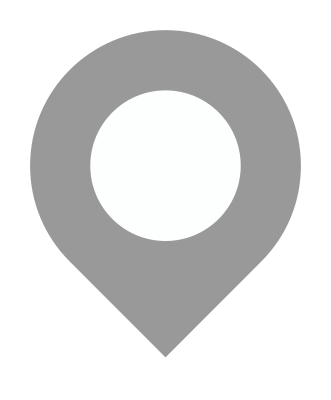
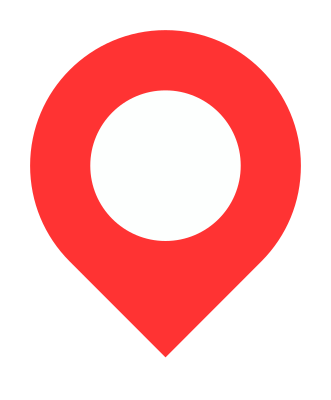
fix marker; add address

diff --git a/map-ui/src/app/map/map.component.ts b/map-ui/src/app/map/map.component.ts
@@ -2,7 +2,7 @@ import { AfterViewInit, Component, ElementRef, OnInit, ViewChild, ViewEncapsulat
 import * as L from 'leaflet';
 import { map, take } from 'rxjs';
 import { environment } from '../../environments/environment';
-import { FavoriteService } from '../services/favorite/favorite.service';
+import { BackendService } from '../services/backend/backend.service';
 import { Dictionary, MapState, MarkerClass, MarkerSvg, MarkerType } from './map.model';
 
 const BASE_ICON_URI = 'https://raw.githubusercontent.com/gravitystorm/openstreetmap-carto/refs/heads/master/symbols/';
@@ -57,13 +57,18 @@ export class MapComponent implements OnInit, AfterViewInit {
     'Tourism': new L.LayerGroup([]),
   };
   private currentMarker: L.Marker = new L.Marker([0, 0]);
-  private readonly ClickIcon: L.Icon = new L.Icon({ iconUrl: '/marker.png', iconSize: [18, 22] });
+  private readonly ClickIcon: L.Icon = new L.Icon({
+    iconUrl: '/marker.png',
+    iconSize: [30, 36],
+    iconAnchor: [15, 36],
+    popupAnchor: [0, -20],
+  });
 
   // eslint-disable-next-line no-unused-vars
-  constructor(private readonly fav: FavoriteService) { }
+  constructor(private readonly backend: BackendService) { }
 
   ngOnInit(): void {
-    this.fav.getAll()
+    this.backend.getFavorites()
       .pipe(
         take(1),
         map(favs => favs.map(f => CreateMarker(f.coords, MarkerType.Favorite, f.name)))
@@ -99,8 +104,12 @@ export class MapComponent implements OnInit, AfterViewInit {
       this.currentMarker?.removeFrom(map);
       this.currentMarker = new L.Marker(event.latlng, { icon: this.ClickIcon })
         .bindTooltip(`${event.latlng.lat}, ${event.latlng.lng}`)
-        .bindPopup(new L.Popup({ closeButton: true, content: 'Copy coordinates', }))
         .addTo(map);
+      this.backend.getAddress(event.latlng).subscribe(address => {
+        const { lat, lng } = event.latlng;
+        const popup = new L.Popup({ closeButton: true, content: `${lng} ${lat}<br />${address}` });
+        this.currentMarker.bindPopup(popup).togglePopup();
+      })
       this.currentMarker.toggleTooltip();
     })
     // const ZoomHandler = L.Handler.extend({

diff --git a/map-ui/src/app/services/backend/backend.service.ts b/map-ui/src/app/services/backend/backend.service.ts
@@ -1,0 +1,37 @@
+import { HttpClient } from '@angular/common/http';
+import { Injectable } from '@angular/core';
+import { latLng, LatLngExpression } from 'leaflet';
+import { map, Observable } from 'rxjs';
+
+export interface Favorite {
+  name: string;
+  coords: [number, number];
+}
+
+interface Address {
+  street?: string;
+  area?: string;
+  city?: string;
+  state?: string;
+}
+
+@Injectable({
+  providedIn: 'root'
+})
+export class BackendService {
+  constructor(private readonly http: HttpClient) { }
+
+  getFavorites(): Observable<Favorite[]> {
+    return this.http.get<{ favorites: Favorite[] }>('http://localhost:8080/favorites')
+      .pipe(map(favs => favs.favorites));
+  }
+
+  getAddress(coords: LatLngExpression): Observable<string> {
+    const { lat, lng } = latLng(coords);
+    return this.http.get<{ address: Address }>('http://localhost:8080/address?coords=' + lat + '&coords=' + lng)
+      .pipe(
+        map(addr => addr.address),
+        map(addr => `${addr.street}, ${addr.area}<br />${addr.city}/${addr.state}`)
+      );
+  }
+}

diff --git a/map-ui/src/app/services/backend/backend.service.spec.ts b/map-ui/src/app/services/backend/backend.service.spec.ts
@@ -1,13 +1,13 @@
 import { TestBed } from '@angular/core/testing';
 
-import { FavoriteService } from './favorite.service';
+import { BackendService } from './backend.service';
 
 describe('FavoriteService', () => {
-  let service: FavoriteService;
+  let service: BackendService;
 
   beforeEach(() => {
     TestBed.configureTestingModule({});
-    service = TestBed.inject(FavoriteService);
+    service = TestBed.inject(BackendService);
   });
 
   it('should be created', () => {

diff --git a/map-backend/src/services/reverse-geocode.service.ts b/map-backend/src/services/reverse-geocode.service.ts
@@ -26,8 +26,8 @@ FROM (
         way
     FROM planet_osm_line
     WHERE
-        name IS NOT NULL
-        OR ref IS NOT NULL
+        (name IS NOT NULL OR ref IS NOT NULL)
+        AND route IS NULL
     UNION ALL
     SELECT
         COALESCE(name, ref) AS name,
